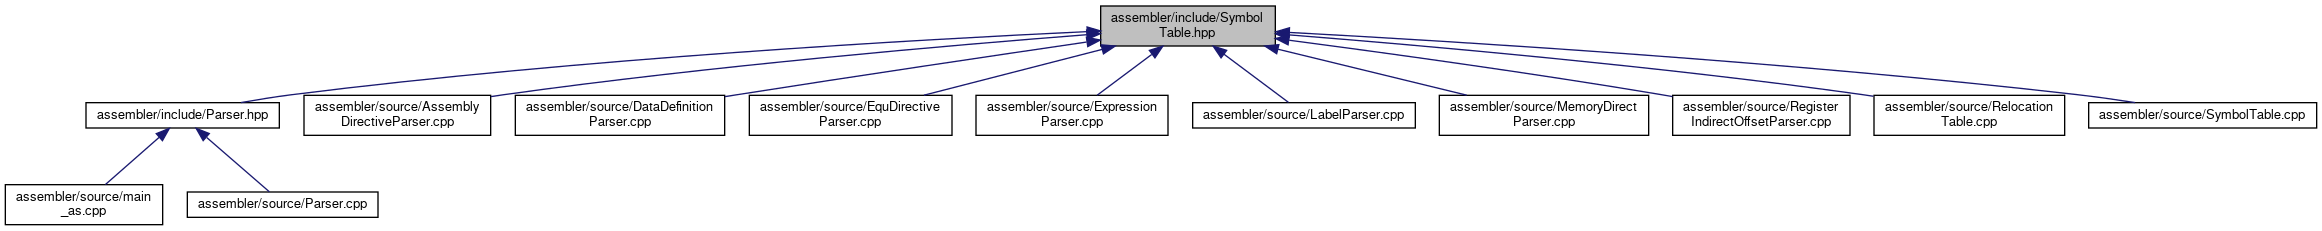
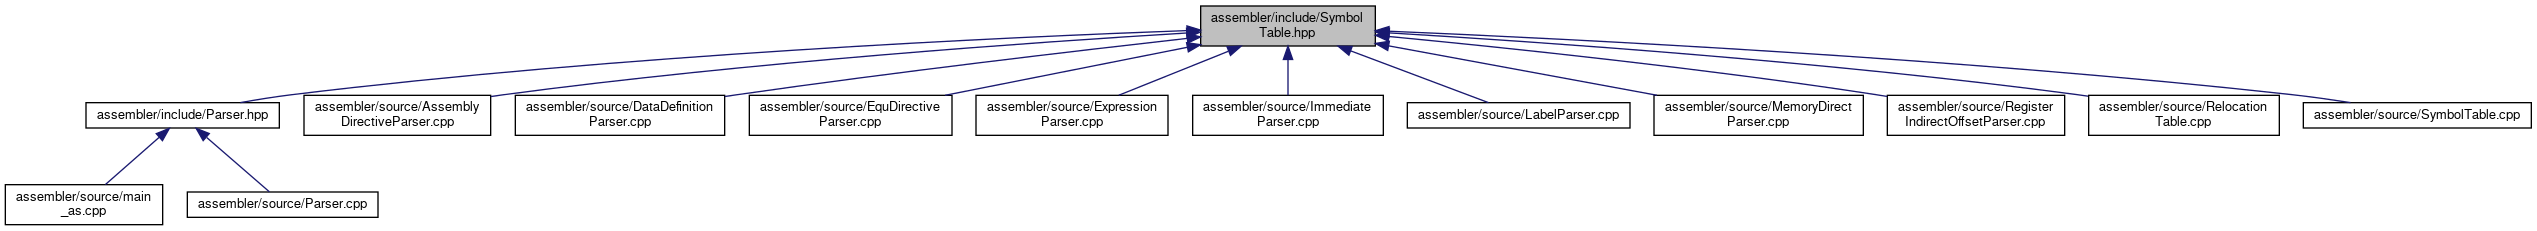
[automated] Build docs

diff --git a/docs/dir_000002_000001.html b/docs/dir_000002_000001.html
@@ -65,7 +65,7 @@ $(function() {
 </div>
 </div><!-- top -->
 <div class="contents">
-<h3>source &rarr; include Relation</h3><table class="dirtab"><tr class="dirtab"><th class="dirtab">File in assembler/source</th><th class="dirtab">Includes file in assembler/include</th></tr><tr class="dirtab"><td class="dirtab"><a class="el" href="AssemblyDirectiveParser_8cpp.html">AssemblyDirectiveParser.cpp</a></td><td class="dirtab"><a class="el" href="AssemblyDirectiveParser_8hpp.html">AssemblyDirectiveParser.hpp</a></td></tr><tr class="dirtab"><td class="dirtab"><a class="el" href="AssemblyDirectiveParser_8cpp.html">AssemblyDirectiveParser.cpp</a></td><td class="dirtab"><a class="el" href="SectionTable_8hpp.html">SectionTable.hpp</a></td></tr><tr class="dirtab"><td class="dirtab"><a class="el" href="AssemblyDirectiveParser_8cpp.html">AssemblyDirectiveParser.cpp</a></td><td class="dirtab"><a class="el" href="SymbolTable_8hpp.html">SymbolTable.hpp</a></td></tr><tr class="dirtab"><td class="dirtab"><a class="el" href="CommandOptions_8cpp.html">CommandOptions.cpp</a></td><td class="dirtab"><a class="el" href="CommandOptions_8hpp.html">CommandOptions.hpp</a></td></tr><tr class="dirtab"><td class="dirtab"><a class="el" href="DataDefinitionParser_8cpp.html">DataDefinitionParser.cpp</a></td><td class="dirtab"><a class="el" href="DataDefinitionParser_8hpp.html">DataDefinitionParser.hpp</a></td></tr><tr class="dirtab"><td class="dirtab"><a class="el" href="DataDefinitionParser_8cpp.html">DataDefinitionParser.cpp</a></td><td class="dirtab"><a class="el" href="ExpressionParser_8hpp.html">ExpressionParser.hpp</a></td></tr><tr class="dirtab"><td class="dirtab"><a class="el" href="DataDefinitionParser_8cpp.html">DataDefinitionParser.cpp</a></td><td class="dirtab"><a class="el" href="ObjectCodeArray_8hpp.html">ObjectCodeArray.hpp</a></td></tr><tr class="dirtab"><td class="dirtab"><a class="el" href="DataDefinitionParser_8cpp.html">DataDefinitionParser.cpp</a></td><td class="dirtab"><a class="el" href="RelocationTable_8hpp.html">RelocationTable.hpp</a></td></tr><tr class="dirtab"><td class="dirtab"><a class="el" href="DataDefinitionParser_8cpp.html">DataDefinitionParser.cpp</a></td><td class="dirtab"><a class="el" href="SymbolTable_8hpp.html">SymbolTable.hpp</a></td></tr><tr class="dirtab"><td class="dirtab"><a class="el" href="EquDirectiveParser_8cpp.html">EquDirectiveParser.cpp</a></td><td class="dirtab"><a class="el" href="EquDirectiveParser_8hpp.html">EquDirectiveParser.hpp</a></td></tr><tr class="dirtab"><td class="dirtab"><a class="el" href="EquDirectiveParser_8cpp.html">EquDirectiveParser.cpp</a></td><td class="dirtab"><a class="el" href="ExpressionParser_8hpp.html">ExpressionParser.hpp</a></td></tr><tr class="dirtab"><td class="dirtab"><a class="el" href="EquDirectiveParser_8cpp.html">EquDirectiveParser.cpp</a></td><td class="dirtab"><a class="el" href="RelocationTable_8hpp.html">RelocationTable.hpp</a></td></tr><tr class="dirtab"><td class="dirtab"><a class="el" href="EquDirectiveParser_8cpp.html">EquDirectiveParser.cpp</a></td><td class="dirtab"><a class="el" href="SectionTable_8hpp.html">SectionTable.hpp</a></td></tr><tr class="dirtab"><td class="dirtab"><a class="el" href="EquDirectiveParser_8cpp.html">EquDirectiveParser.cpp</a></td><td class="dirtab"><a class="el" href="SymbolTable_8hpp.html">SymbolTable.hpp</a></td></tr><tr class="dirtab"><td class="dirtab"><a class="el" href="ExpressionParser_8cpp.html">ExpressionParser.cpp</a></td><td class="dirtab"><a class="el" href="DataDefs_8hpp.html">DataDefs.hpp</a></td></tr><tr class="dirtab"><td class="dirtab"><a class="el" href="ExpressionParser_8cpp.html">ExpressionParser.cpp</a></td><td class="dirtab"><a class="el" href="ExpressionParser_8hpp.html">ExpressionParser.hpp</a></td></tr><tr class="dirtab"><td class="dirtab"><a class="el" href="ExpressionParser_8cpp.html">ExpressionParser.cpp</a></td><td class="dirtab"><a class="el" href="LiteralParsingException_8hpp.html">LiteralParsingException.hpp</a></td></tr><tr class="dirtab"><td class="dirtab"><a class="el" href="ExpressionParser_8cpp.html">ExpressionParser.cpp</a></td><td class="dirtab"><a class="el" href="SymbolTable_8hpp.html">SymbolTable.hpp</a></td></tr><tr class="dirtab"><td class="dirtab"><a class="el" href="ImmediateParser_8cpp.html">ImmediateParser.cpp</a></td><td class="dirtab"><a class="el" href="ExpressionParser_8hpp.html">ExpressionParser.hpp</a></td></tr><tr class="dirtab"><td class="dirtab"><a class="el" href="ImmediateParser_8cpp.html">ImmediateParser.cpp</a></td><td class="dirtab"><a class="el" href="ImmediateParser_8hpp.html">ImmediateParser.hpp</a></td></tr><tr class="dirtab"><td class="dirtab"><a class="el" href="InstructionParser_8cpp.html">InstructionParser.cpp</a></td><td class="dirtab"><a class="el" href="ImmediateParser_8hpp.html">ImmediateParser.hpp</a></td></tr><tr class="dirtab"><td class="dirtab"><a class="el" href="InstructionParser_8cpp.html">InstructionParser.cpp</a></td><td class="dirtab"><a class="el" href="InstructionParser_8hpp.html">InstructionParser.hpp</a></td></tr><tr class="dirtab"><td class="dirtab"><a class="el" href="InstructionParser_8cpp.html">InstructionParser.cpp</a></td><td class="dirtab"><a class="el" href="MemoryDirectParser_8hpp.html">MemoryDirectParser.hpp</a></td></tr><tr class="dirtab"><td class="dirtab"><a class="el" href="InstructionParser_8cpp.html">InstructionParser.cpp</a></td><td class="dirtab"><a class="el" href="ObjectCodeArray_8hpp.html">ObjectCodeArray.hpp</a></td></tr><tr class="dirtab"><td class="dirtab"><a class="el" href="InstructionParser_8cpp.html">InstructionParser.cpp</a></td><td class="dirtab"><a class="el" href="RegisterDirectParser_8hpp.html">RegisterDirectParser.hpp</a></td></tr><tr class="dirtab"><td class="dirtab"><a class="el" href="InstructionParser_8cpp.html">InstructionParser.cpp</a></td><td class="dirtab"><a class="el" href="RegisterIndirectOffsetParser_8hpp.html">RegisterIndirectOffsetParser.hpp</a></td></tr><tr class="dirtab"><td class="dirtab"><a class="el" href="InstructionParser_8cpp.html">InstructionParser.cpp</a></td><td class="dirtab"><a class="el" href="RegisterIndirectParser_8hpp.html">RegisterIndirectParser.hpp</a></td></tr><tr class="dirtab"><td class="dirtab"><a class="el" href="LabelParser_8cpp.html">LabelParser.cpp</a></td><td class="dirtab"><a class="el" href="LabelParser_8hpp.html">LabelParser.hpp</a></td></tr><tr class="dirtab"><td class="dirtab"><a class="el" href="LabelParser_8cpp.html">LabelParser.cpp</a></td><td class="dirtab"><a class="el" href="ParsingException_8hpp.html">ParsingException.hpp</a></td></tr><tr class="dirtab"><td class="dirtab"><a class="el" href="LabelParser_8cpp.html">LabelParser.cpp</a></td><td class="dirtab"><a class="el" href="SymbolTable_8hpp.html">SymbolTable.hpp</a></td></tr><tr class="dirtab"><td class="dirtab"><a class="el" href="LineCommentStripper_8cpp.html">LineCommentStripper.cpp</a></td><td class="dirtab"><a class="el" href="LineCommentStripper_8hpp.html">LineCommentStripper.hpp</a></td></tr><tr class="dirtab"><td class="dirtab"><a class="el" href="main__as_8cpp.html">main_as.cpp</a></td><td class="dirtab"><a class="el" href="CommandOptions_8hpp.html">CommandOptions.hpp</a></td></tr><tr class="dirtab"><td class="dirtab"><a class="el" href="main__as_8cpp.html">main_as.cpp</a></td><td class="dirtab"><a class="el" href="Parser_8hpp.html">Parser.hpp</a></td></tr><tr class="dirtab"><td class="dirtab"><a class="el" href="MemoryDirectParser_8cpp.html">MemoryDirectParser.cpp</a></td><td class="dirtab"><a class="el" href="ExpressionParser_8hpp.html">ExpressionParser.hpp</a></td></tr><tr class="dirtab"><td class="dirtab"><a class="el" href="MemoryDirectParser_8cpp.html">MemoryDirectParser.cpp</a></td><td class="dirtab"><a class="el" href="MemoryDirectParser_8hpp.html">MemoryDirectParser.hpp</a></td></tr><tr class="dirtab"><td class="dirtab"><a class="el" href="MemoryDirectParser_8cpp.html">MemoryDirectParser.cpp</a></td><td class="dirtab"><a class="el" href="SymbolTable_8hpp.html">SymbolTable.hpp</a></td></tr><tr class="dirtab"><td class="dirtab"><a class="el" href="ObjectCodeArray_8cpp.html">ObjectCodeArray.cpp</a></td><td class="dirtab"><a class="el" href="ObjectCodeArray_8hpp.html">ObjectCodeArray.hpp</a></td></tr><tr class="dirtab"><td class="dirtab"><a class="el" href="OperandParser_8cpp.html">OperandParser.cpp</a></td><td class="dirtab"><a class="el" href="OperandParser_8hpp.html">OperandParser.hpp</a></td></tr><tr class="dirtab"><td class="dirtab"><a class="el" href="Parser_8cpp.html">Parser.cpp</a></td><td class="dirtab"><a class="el" href="AssemblyDirectiveParser_8hpp.html">AssemblyDirectiveParser.hpp</a></td></tr><tr class="dirtab"><td class="dirtab"><a class="el" href="Parser_8cpp.html">Parser.cpp</a></td><td class="dirtab"><a class="el" href="DataDefinitionParser_8hpp.html">DataDefinitionParser.hpp</a></td></tr><tr class="dirtab"><td class="dirtab"><a class="el" href="Parser_8cpp.html">Parser.cpp</a></td><td class="dirtab"><a class="el" href="EquDirectiveParser_8hpp.html">EquDirectiveParser.hpp</a></td></tr><tr class="dirtab"><td class="dirtab"><a class="el" href="Parser_8cpp.html">Parser.cpp</a></td><td class="dirtab"><a class="el" href="InstructionParser_8hpp.html">InstructionParser.hpp</a></td></tr><tr class="dirtab"><td class="dirtab"><a class="el" href="Parser_8cpp.html">Parser.cpp</a></td><td class="dirtab"><a class="el" href="Parser_8hpp.html">Parser.hpp</a></td></tr><tr class="dirtab"><td class="dirtab"><a class="el" href="Parser_8cpp.html">Parser.cpp</a></td><td class="dirtab"><a class="el" href="ParsingException_8hpp.html">ParsingException.hpp</a></td></tr><tr class="dirtab"><td class="dirtab"><a class="el" href="RegisterDirectParser_8cpp.html">RegisterDirectParser.cpp</a></td><td class="dirtab"><a class="el" href="RegisterDirectParser_8hpp.html">RegisterDirectParser.hpp</a></td></tr><tr class="dirtab"><td class="dirtab"><a class="el" href="RegisterIndirectOffsetParser_8cpp.html">RegisterIndirectOffsetParser.cpp</a></td><td class="dirtab"><a class="el" href="ExpressionParser_8hpp.html">ExpressionParser.hpp</a></td></tr><tr class="dirtab"><td class="dirtab"><a class="el" href="RegisterIndirectOffsetParser_8cpp.html">RegisterIndirectOffsetParser.cpp</a></td><td class="dirtab"><a class="el" href="RegisterIndirectOffsetParser_8hpp.html">RegisterIndirectOffsetParser.hpp</a></td></tr><tr class="dirtab"><td class="dirtab"><a class="el" href="RegisterIndirectOffsetParser_8cpp.html">RegisterIndirectOffsetParser.cpp</a></td><td class="dirtab"><a class="el" href="SymbolTable_8hpp.html">SymbolTable.hpp</a></td></tr><tr class="dirtab"><td class="dirtab"><a class="el" href="RegisterIndirectParser_8cpp.html">RegisterIndirectParser.cpp</a></td><td class="dirtab"><a class="el" href="RegisterIndirectParser_8hpp.html">RegisterIndirectParser.hpp</a></td></tr><tr class="dirtab"><td class="dirtab"><a class="el" href="RelocationTable_8cpp.html">RelocationTable.cpp</a></td><td class="dirtab"><a class="el" href="ObjectCodeArray_8hpp.html">ObjectCodeArray.hpp</a></td></tr><tr class="dirtab"><td class="dirtab"><a class="el" href="RelocationTable_8cpp.html">RelocationTable.cpp</a></td><td class="dirtab"><a class="el" href="RelocationTable_8hpp.html">RelocationTable.hpp</a></td></tr><tr class="dirtab"><td class="dirtab"><a class="el" href="RelocationTable_8cpp.html">RelocationTable.cpp</a></td><td class="dirtab"><a class="el" href="SymbolTable_8hpp.html">SymbolTable.hpp</a></td></tr><tr class="dirtab"><td class="dirtab"><a class="el" href="RelocationTable_8cpp.html">RelocationTable.cpp</a></td><td class="dirtab"><a class="el" href="UndefinedSymbolReference_8hpp.html">UndefinedSymbolReference.hpp</a></td></tr><tr class="dirtab"><td class="dirtab"><a class="el" href="SectionTable_8cpp.html">SectionTable.cpp</a></td><td class="dirtab"><a class="el" href="SectionTable_8hpp.html">SectionTable.hpp</a></td></tr><tr class="dirtab"><td class="dirtab"><a class="el" href="Statement_8cpp.html">Statement.cpp</a></td><td class="dirtab"><a class="el" href="Statement_8hpp.html">Statement.hpp</a></td></tr><tr class="dirtab"><td class="dirtab"><a class="el" href="StatementParser_8cpp.html">StatementParser.cpp</a></td><td class="dirtab"><a class="el" href="StatementParser_8hpp.html">StatementParser.hpp</a></td></tr><tr class="dirtab"><td class="dirtab"><a class="el" href="SymbolTable_8cpp.html">SymbolTable.cpp</a></td><td class="dirtab"><a class="el" href="SymbolTable_8hpp.html">SymbolTable.hpp</a></td></tr></table></div><!-- contents -->
+<h3>source &rarr; include Relation</h3><table class="dirtab"><tr class="dirtab"><th class="dirtab">File in assembler/source</th><th class="dirtab">Includes file in assembler/include</th></tr><tr class="dirtab"><td class="dirtab"><a class="el" href="AssemblyDirectiveParser_8cpp.html">AssemblyDirectiveParser.cpp</a></td><td class="dirtab"><a class="el" href="AssemblyDirectiveParser_8hpp.html">AssemblyDirectiveParser.hpp</a></td></tr><tr class="dirtab"><td class="dirtab"><a class="el" href="AssemblyDirectiveParser_8cpp.html">AssemblyDirectiveParser.cpp</a></td><td class="dirtab"><a class="el" href="SectionTable_8hpp.html">SectionTable.hpp</a></td></tr><tr class="dirtab"><td class="dirtab"><a class="el" href="AssemblyDirectiveParser_8cpp.html">AssemblyDirectiveParser.cpp</a></td><td class="dirtab"><a class="el" href="SymbolTable_8hpp.html">SymbolTable.hpp</a></td></tr><tr class="dirtab"><td class="dirtab"><a class="el" href="CommandOptions_8cpp.html">CommandOptions.cpp</a></td><td class="dirtab"><a class="el" href="CommandOptions_8hpp.html">CommandOptions.hpp</a></td></tr><tr class="dirtab"><td class="dirtab"><a class="el" href="DataDefinitionParser_8cpp.html">DataDefinitionParser.cpp</a></td><td class="dirtab"><a class="el" href="DataDefinitionParser_8hpp.html">DataDefinitionParser.hpp</a></td></tr><tr class="dirtab"><td class="dirtab"><a class="el" href="DataDefinitionParser_8cpp.html">DataDefinitionParser.cpp</a></td><td class="dirtab"><a class="el" href="ExpressionParser_8hpp.html">ExpressionParser.hpp</a></td></tr><tr class="dirtab"><td class="dirtab"><a class="el" href="DataDefinitionParser_8cpp.html">DataDefinitionParser.cpp</a></td><td class="dirtab"><a class="el" href="ObjectCodeArray_8hpp.html">ObjectCodeArray.hpp</a></td></tr><tr class="dirtab"><td class="dirtab"><a class="el" href="DataDefinitionParser_8cpp.html">DataDefinitionParser.cpp</a></td><td class="dirtab"><a class="el" href="RelocationTable_8hpp.html">RelocationTable.hpp</a></td></tr><tr class="dirtab"><td class="dirtab"><a class="el" href="DataDefinitionParser_8cpp.html">DataDefinitionParser.cpp</a></td><td class="dirtab"><a class="el" href="SymbolTable_8hpp.html">SymbolTable.hpp</a></td></tr><tr class="dirtab"><td class="dirtab"><a class="el" href="EquDirectiveParser_8cpp.html">EquDirectiveParser.cpp</a></td><td class="dirtab"><a class="el" href="EquDirectiveParser_8hpp.html">EquDirectiveParser.hpp</a></td></tr><tr class="dirtab"><td class="dirtab"><a class="el" href="EquDirectiveParser_8cpp.html">EquDirectiveParser.cpp</a></td><td class="dirtab"><a class="el" href="ExpressionParser_8hpp.html">ExpressionParser.hpp</a></td></tr><tr class="dirtab"><td class="dirtab"><a class="el" href="EquDirectiveParser_8cpp.html">EquDirectiveParser.cpp</a></td><td class="dirtab"><a class="el" href="RelocationTable_8hpp.html">RelocationTable.hpp</a></td></tr><tr class="dirtab"><td class="dirtab"><a class="el" href="EquDirectiveParser_8cpp.html">EquDirectiveParser.cpp</a></td><td class="dirtab"><a class="el" href="SectionTable_8hpp.html">SectionTable.hpp</a></td></tr><tr class="dirtab"><td class="dirtab"><a class="el" href="EquDirectiveParser_8cpp.html">EquDirectiveParser.cpp</a></td><td class="dirtab"><a class="el" href="SymbolTable_8hpp.html">SymbolTable.hpp</a></td></tr><tr class="dirtab"><td class="dirtab"><a class="el" href="ExpressionParser_8cpp.html">ExpressionParser.cpp</a></td><td class="dirtab"><a class="el" href="DataDefs_8hpp.html">DataDefs.hpp</a></td></tr><tr class="dirtab"><td class="dirtab"><a class="el" href="ExpressionParser_8cpp.html">ExpressionParser.cpp</a></td><td class="dirtab"><a class="el" href="ExpressionParser_8hpp.html">ExpressionParser.hpp</a></td></tr><tr class="dirtab"><td class="dirtab"><a class="el" href="ExpressionParser_8cpp.html">ExpressionParser.cpp</a></td><td class="dirtab"><a class="el" href="LiteralParsingException_8hpp.html">LiteralParsingException.hpp</a></td></tr><tr class="dirtab"><td class="dirtab"><a class="el" href="ExpressionParser_8cpp.html">ExpressionParser.cpp</a></td><td class="dirtab"><a class="el" href="SymbolTable_8hpp.html">SymbolTable.hpp</a></td></tr><tr class="dirtab"><td class="dirtab"><a class="el" href="ImmediateParser_8cpp.html">ImmediateParser.cpp</a></td><td class="dirtab"><a class="el" href="ExpressionParser_8hpp.html">ExpressionParser.hpp</a></td></tr><tr class="dirtab"><td class="dirtab"><a class="el" href="ImmediateParser_8cpp.html">ImmediateParser.cpp</a></td><td class="dirtab"><a class="el" href="ImmediateParser_8hpp.html">ImmediateParser.hpp</a></td></tr><tr class="dirtab"><td class="dirtab"><a class="el" href="ImmediateParser_8cpp.html">ImmediateParser.cpp</a></td><td class="dirtab"><a class="el" href="RelocationTable_8hpp.html">RelocationTable.hpp</a></td></tr><tr class="dirtab"><td class="dirtab"><a class="el" href="ImmediateParser_8cpp.html">ImmediateParser.cpp</a></td><td class="dirtab"><a class="el" href="SymbolTable_8hpp.html">SymbolTable.hpp</a></td></tr><tr class="dirtab"><td class="dirtab"><a class="el" href="InstructionParser_8cpp.html">InstructionParser.cpp</a></td><td class="dirtab"><a class="el" href="ImmediateParser_8hpp.html">ImmediateParser.hpp</a></td></tr><tr class="dirtab"><td class="dirtab"><a class="el" href="InstructionParser_8cpp.html">InstructionParser.cpp</a></td><td class="dirtab"><a class="el" href="InstructionParser_8hpp.html">InstructionParser.hpp</a></td></tr><tr class="dirtab"><td class="dirtab"><a class="el" href="InstructionParser_8cpp.html">InstructionParser.cpp</a></td><td class="dirtab"><a class="el" href="MemoryDirectParser_8hpp.html">MemoryDirectParser.hpp</a></td></tr><tr class="dirtab"><td class="dirtab"><a class="el" href="InstructionParser_8cpp.html">InstructionParser.cpp</a></td><td class="dirtab"><a class="el" href="ObjectCodeArray_8hpp.html">ObjectCodeArray.hpp</a></td></tr><tr class="dirtab"><td class="dirtab"><a class="el" href="InstructionParser_8cpp.html">InstructionParser.cpp</a></td><td class="dirtab"><a class="el" href="RegisterDirectParser_8hpp.html">RegisterDirectParser.hpp</a></td></tr><tr class="dirtab"><td class="dirtab"><a class="el" href="InstructionParser_8cpp.html">InstructionParser.cpp</a></td><td class="dirtab"><a class="el" href="RegisterIndirectOffsetParser_8hpp.html">RegisterIndirectOffsetParser.hpp</a></td></tr><tr class="dirtab"><td class="dirtab"><a class="el" href="InstructionParser_8cpp.html">InstructionParser.cpp</a></td><td class="dirtab"><a class="el" href="RegisterIndirectParser_8hpp.html">RegisterIndirectParser.hpp</a></td></tr><tr class="dirtab"><td class="dirtab"><a class="el" href="LabelParser_8cpp.html">LabelParser.cpp</a></td><td class="dirtab"><a class="el" href="LabelParser_8hpp.html">LabelParser.hpp</a></td></tr><tr class="dirtab"><td class="dirtab"><a class="el" href="LabelParser_8cpp.html">LabelParser.cpp</a></td><td class="dirtab"><a class="el" href="ParsingException_8hpp.html">ParsingException.hpp</a></td></tr><tr class="dirtab"><td class="dirtab"><a class="el" href="LabelParser_8cpp.html">LabelParser.cpp</a></td><td class="dirtab"><a class="el" href="SymbolTable_8hpp.html">SymbolTable.hpp</a></td></tr><tr class="dirtab"><td class="dirtab"><a class="el" href="LineCommentStripper_8cpp.html">LineCommentStripper.cpp</a></td><td class="dirtab"><a class="el" href="LineCommentStripper_8hpp.html">LineCommentStripper.hpp</a></td></tr><tr class="dirtab"><td class="dirtab"><a class="el" href="main__as_8cpp.html">main_as.cpp</a></td><td class="dirtab"><a class="el" href="CommandOptions_8hpp.html">CommandOptions.hpp</a></td></tr><tr class="dirtab"><td class="dirtab"><a class="el" href="main__as_8cpp.html">main_as.cpp</a></td><td class="dirtab"><a class="el" href="Parser_8hpp.html">Parser.hpp</a></td></tr><tr class="dirtab"><td class="dirtab"><a class="el" href="MemoryDirectParser_8cpp.html">MemoryDirectParser.cpp</a></td><td class="dirtab"><a class="el" href="ExpressionParser_8hpp.html">ExpressionParser.hpp</a></td></tr><tr class="dirtab"><td class="dirtab"><a class="el" href="MemoryDirectParser_8cpp.html">MemoryDirectParser.cpp</a></td><td class="dirtab"><a class="el" href="MemoryDirectParser_8hpp.html">MemoryDirectParser.hpp</a></td></tr><tr class="dirtab"><td class="dirtab"><a class="el" href="MemoryDirectParser_8cpp.html">MemoryDirectParser.cpp</a></td><td class="dirtab"><a class="el" href="SymbolTable_8hpp.html">SymbolTable.hpp</a></td></tr><tr class="dirtab"><td class="dirtab"><a class="el" href="ObjectCodeArray_8cpp.html">ObjectCodeArray.cpp</a></td><td class="dirtab"><a class="el" href="ObjectCodeArray_8hpp.html">ObjectCodeArray.hpp</a></td></tr><tr class="dirtab"><td class="dirtab"><a class="el" href="OperandParser_8cpp.html">OperandParser.cpp</a></td><td class="dirtab"><a class="el" href="OperandParser_8hpp.html">OperandParser.hpp</a></td></tr><tr class="dirtab"><td class="dirtab"><a class="el" href="Parser_8cpp.html">Parser.cpp</a></td><td class="dirtab"><a class="el" href="AssemblyDirectiveParser_8hpp.html">AssemblyDirectiveParser.hpp</a></td></tr><tr class="dirtab"><td class="dirtab"><a class="el" href="Parser_8cpp.html">Parser.cpp</a></td><td class="dirtab"><a class="el" href="DataDefinitionParser_8hpp.html">DataDefinitionParser.hpp</a></td></tr><tr class="dirtab"><td class="dirtab"><a class="el" href="Parser_8cpp.html">Parser.cpp</a></td><td class="dirtab"><a class="el" href="EquDirectiveParser_8hpp.html">EquDirectiveParser.hpp</a></td></tr><tr class="dirtab"><td class="dirtab"><a class="el" href="Parser_8cpp.html">Parser.cpp</a></td><td class="dirtab"><a class="el" href="InstructionParser_8hpp.html">InstructionParser.hpp</a></td></tr><tr class="dirtab"><td class="dirtab"><a class="el" href="Parser_8cpp.html">Parser.cpp</a></td><td class="dirtab"><a class="el" href="Parser_8hpp.html">Parser.hpp</a></td></tr><tr class="dirtab"><td class="dirtab"><a class="el" href="Parser_8cpp.html">Parser.cpp</a></td><td class="dirtab"><a class="el" href="ParsingException_8hpp.html">ParsingException.hpp</a></td></tr><tr class="dirtab"><td class="dirtab"><a class="el" href="RegisterDirectParser_8cpp.html">RegisterDirectParser.cpp</a></td><td class="dirtab"><a class="el" href="RegisterDirectParser_8hpp.html">RegisterDirectParser.hpp</a></td></tr><tr class="dirtab"><td class="dirtab"><a class="el" href="RegisterIndirectOffsetParser_8cpp.html">RegisterIndirectOffsetParser.cpp</a></td><td class="dirtab"><a class="el" href="ExpressionParser_8hpp.html">ExpressionParser.hpp</a></td></tr><tr class="dirtab"><td class="dirtab"><a class="el" href="RegisterIndirectOffsetParser_8cpp.html">RegisterIndirectOffsetParser.cpp</a></td><td class="dirtab"><a class="el" href="RegisterIndirectOffsetParser_8hpp.html">RegisterIndirectOffsetParser.hpp</a></td></tr><tr class="dirtab"><td class="dirtab"><a class="el" href="RegisterIndirectOffsetParser_8cpp.html">RegisterIndirectOffsetParser.cpp</a></td><td class="dirtab"><a class="el" href="SymbolTable_8hpp.html">SymbolTable.hpp</a></td></tr><tr class="dirtab"><td class="dirtab"><a class="el" href="RegisterIndirectParser_8cpp.html">RegisterIndirectParser.cpp</a></td><td class="dirtab"><a class="el" href="RegisterIndirectParser_8hpp.html">RegisterIndirectParser.hpp</a></td></tr><tr class="dirtab"><td class="dirtab"><a class="el" href="RelocationTable_8cpp.html">RelocationTable.cpp</a></td><td class="dirtab"><a class="el" href="ObjectCodeArray_8hpp.html">ObjectCodeArray.hpp</a></td></tr><tr class="dirtab"><td class="dirtab"><a class="el" href="RelocationTable_8cpp.html">RelocationTable.cpp</a></td><td class="dirtab"><a class="el" href="RelocationTable_8hpp.html">RelocationTable.hpp</a></td></tr><tr class="dirtab"><td class="dirtab"><a class="el" href="RelocationTable_8cpp.html">RelocationTable.cpp</a></td><td class="dirtab"><a class="el" href="SymbolTable_8hpp.html">SymbolTable.hpp</a></td></tr><tr class="dirtab"><td class="dirtab"><a class="el" href="RelocationTable_8cpp.html">RelocationTable.cpp</a></td><td class="dirtab"><a class="el" href="UndefinedSymbolReference_8hpp.html">UndefinedSymbolReference.hpp</a></td></tr><tr class="dirtab"><td class="dirtab"><a class="el" href="SectionTable_8cpp.html">SectionTable.cpp</a></td><td class="dirtab"><a class="el" href="SectionTable_8hpp.html">SectionTable.hpp</a></td></tr><tr class="dirtab"><td class="dirtab"><a class="el" href="Statement_8cpp.html">Statement.cpp</a></td><td class="dirtab"><a class="el" href="Statement_8hpp.html">Statement.hpp</a></td></tr><tr class="dirtab"><td class="dirtab"><a class="el" href="StatementParser_8cpp.html">StatementParser.cpp</a></td><td class="dirtab"><a class="el" href="StatementParser_8hpp.html">StatementParser.hpp</a></td></tr><tr class="dirtab"><td class="dirtab"><a class="el" href="SymbolTable_8cpp.html">SymbolTable.cpp</a></td><td class="dirtab"><a class="el" href="SymbolTable_8hpp.html">SymbolTable.hpp</a></td></tr></table></div><!-- contents -->
 <!-- start footer part -->
 <hr class="footer"/><address class="footer"><small>
 Generated by&#160;<a href="https://www.doxygen.org/index.html"><img class="footer" src="doxygen.svg" width="104" height="31" alt="doxygen"/></a> 1.9.1

diff --git a/docs/ImmediateParser_8hpp_source.html b/docs/ImmediateParser_8hpp_source.html
@@ -93,16 +93,19 @@ $(function() {
 <div class="line"><a name="l00022"></a><span class="lineno">   22</span>&#160;        <span class="keywordtype">bool</span> can_parse(<span class="keyword">const</span> std::string &amp;operand) <span class="keyword">const</span>;</div>
 <div class="line"><a name="l00023"></a><span class="lineno">   23</span>&#160;        <span class="keywordtype">bool</span> can_parse_jump_instruction(<span class="keyword">const</span> std::string &amp;operand) <span class="keyword">const</span>;</div>
 <div class="line"><a name="l00024"></a><span class="lineno">   24</span>&#160; </div>
-<div class="line"><a name="l00025"></a><span class="lineno">   25</span>&#160;        std::shared_ptr&lt;assembler::SymbolTable&gt; symbol_table_;</div>
-<div class="line"><a name="l00026"></a><span class="lineno">   26</span>&#160;    };</div>
-<div class="line"><a name="l00027"></a><span class="lineno">   27</span>&#160;} <span class="comment">// namespace parsers</span></div>
-<div class="line"><a name="l00028"></a><span class="lineno">   28</span>&#160; </div>
-<div class="line"><a name="l00029"></a><span class="lineno">   29</span>&#160;<span class="preprocessor">#endif</span></div>
+<div class="line"><a name="l00025"></a><span class="lineno">   25</span>&#160;        <span class="keywordtype">void</span> add_immediate_relocation(std::string symbol,</div>
+<div class="line"><a name="l00026"></a><span class="lineno">   26</span>&#160;                                      std::shared_ptr&lt;statement::operand_t&gt; operand);</div>
+<div class="line"><a name="l00027"></a><span class="lineno">   27</span>&#160; </div>
+<div class="line"><a name="l00028"></a><span class="lineno">   28</span>&#160;        std::shared_ptr&lt;assembler::SymbolTable&gt; symbol_table_;</div>
+<div class="line"><a name="l00029"></a><span class="lineno">   29</span>&#160;    };</div>
+<div class="line"><a name="l00030"></a><span class="lineno">   30</span>&#160;} <span class="comment">// namespace parsers</span></div>
+<div class="line"><a name="l00031"></a><span class="lineno">   31</span>&#160; </div>
+<div class="line"><a name="l00032"></a><span class="lineno">   32</span>&#160;<span class="preprocessor">#endif</span></div>
 <div class="ttc" id="aOperandParser_8hpp_html"><div class="ttname"><a href="OperandParser_8hpp.html">OperandParser.hpp</a></div></div>
 <div class="ttc" id="aclassparsers_1_1ImmediateParser_html"><div class="ttname"><a href="classparsers_1_1ImmediateParser.html">parsers::ImmediateParser</a></div><div class="ttdef"><b>Definition:</b> ImmediateParser.hpp:14</div></div>
-<div class="ttc" id="aclassparsers_1_1ImmediateParser_html_a29a9eeed8a50975b819b43288dda389f"><div class="ttname"><a href="classparsers_1_1ImmediateParser.html#a29a9eeed8a50975b819b43288dda389f">parsers::ImmediateParser::ImmediateParser</a></div><div class="ttdeci">ImmediateParser(std::shared_ptr&lt; assembler::SymbolTable &gt; symbol_table)</div><div class="ttdef"><b>Definition:</b> ImmediateParser.cpp:37</div></div>
-<div class="ttc" id="aclassparsers_1_1ImmediateParser_html_a9b14084f76bd3838e18f8e24ca6dd7bd"><div class="ttname"><a href="classparsers_1_1ImmediateParser.html#a9b14084f76bd3838e18f8e24ca6dd7bd">parsers::ImmediateParser::parse</a></div><div class="ttdeci">std::shared_ptr&lt; statement::operand_t &gt; parse(std::string operand) override</div><div class="ttdef"><b>Definition:</b> ImmediateParser.cpp:5</div></div>
-<div class="ttc" id="aclassparsers_1_1ImmediateParser_html_ad05c5a3a9c74f67755a399958086bc9e"><div class="ttname"><a href="classparsers_1_1ImmediateParser.html#ad05c5a3a9c74f67755a399958086bc9e">parsers::ImmediateParser::parse_jump_instruction</a></div><div class="ttdeci">std::shared_ptr&lt; statement::operand_t &gt; parse_jump_instruction(std::string operand) override</div><div class="ttdef"><b>Definition:</b> ImmediateParser.cpp:22</div></div>
+<div class="ttc" id="aclassparsers_1_1ImmediateParser_html_a29a9eeed8a50975b819b43288dda389f"><div class="ttname"><a href="classparsers_1_1ImmediateParser.html#a29a9eeed8a50975b819b43288dda389f">parsers::ImmediateParser::ImmediateParser</a></div><div class="ttdeci">ImmediateParser(std::shared_ptr&lt; assembler::SymbolTable &gt; symbol_table)</div><div class="ttdef"><b>Definition:</b> ImmediateParser.cpp:45</div></div>
+<div class="ttc" id="aclassparsers_1_1ImmediateParser_html_a9b14084f76bd3838e18f8e24ca6dd7bd"><div class="ttname"><a href="classparsers_1_1ImmediateParser.html#a9b14084f76bd3838e18f8e24ca6dd7bd">parsers::ImmediateParser::parse</a></div><div class="ttdeci">std::shared_ptr&lt; statement::operand_t &gt; parse(std::string operand) override</div><div class="ttdef"><b>Definition:</b> ImmediateParser.cpp:7</div></div>
+<div class="ttc" id="aclassparsers_1_1ImmediateParser_html_ad05c5a3a9c74f67755a399958086bc9e"><div class="ttname"><a href="classparsers_1_1ImmediateParser.html#ad05c5a3a9c74f67755a399958086bc9e">parsers::ImmediateParser::parse_jump_instruction</a></div><div class="ttdeci">std::shared_ptr&lt; statement::operand_t &gt; parse_jump_instruction(std::string operand) override</div><div class="ttdef"><b>Definition:</b> ImmediateParser.cpp:27</div></div>
 <div class="ttc" id="aclassparsers_1_1OperandParser_html"><div class="ttname"><a href="classparsers_1_1OperandParser.html">parsers::OperandParser</a></div><div class="ttdef"><b>Definition:</b> OperandParser.hpp:12</div></div>
 <div class="ttc" id="anamespaceassembler_html"><div class="ttname"><a href="namespaceassembler.html">assembler</a></div><div class="ttdef"><b>Definition:</b> AssemblyDirectiveParser.hpp:7</div></div>
 <div class="ttc" id="anamespaceparsers_html"><div class="ttname"><a href="namespaceparsers.html">parsers</a></div><div class="ttdef"><b>Definition:</b> AssemblyDirectiveParser.hpp:13</div></div>

diff --git a/docs/RelocationTable_8hpp.html b/docs/RelocationTable_8hpp.html
@@ -93,28 +93,28 @@ This graph shows which files directly or indirectly include this file:</div>
 <div class="dyncontent">
 <div class="center"><img src="RelocationTable_8hpp__dep__incl.png" border="0" usemap="#aassembler_2include_2RelocationTable_8hppdep" alt=""/></div>
 <map name="aassembler_2include_2RelocationTable_8hppdep" id="aassembler_2include_2RelocationTable_8hppdep">
-<area shape="rect" title=" " alt="" coords="1502,5,1694,47"/>
-<area shape="rect" href="Operand_8hpp.html" title=" " alt="" coords="992,102,1196,129"/>
-<area shape="rect" href="Parser_8hpp.html" title=" " alt="" coords="1276,102,1469,129"/>
-<area shape="rect" href="DataDefinitionParser_8cpp.html" title=" " alt="" coords="1493,95,1703,136"/>
-<area shape="rect" href="EquDirectiveParser_8cpp.html" title=" " alt="" coords="1727,95,1930,136"/>
-<area shape="rect" href="RelocationTable_8cpp.html" title=" " alt="" coords="1955,95,2145,136"/>
-<area shape="rect" href="InstructionParser_8hpp.html" title=" " alt="" coords="998,184,1190,225"/>
-<area shape="rect" href="OperandParser_8hpp.html" title=" " alt="" coords="647,184,827,225"/>
-<area shape="rect" href="InstructionParser_8cpp.html" title=" " alt="" coords="655,363,845,404"/>
-<area shape="rect" href="Parser_8cpp.html" title=" " alt="" coords="1307,281,1497,307"/>
-<area shape="rect" href="ImmediateParser_8hpp.html" title=" " alt="" coords="431,273,623,315"/>
-<area shape="rect" href="MemoryDirectParser_8hpp.html" title=" " alt="" coords="229,273,407,315"/>
-<area shape="rect" href="RegisterDirectParser_8hpp.html" title=" " alt="" coords="850,273,1029,315"/>
-<area shape="rect" href="RegisterIndirectOffsetParser_8hpp.html" title=" " alt="" coords="1103,273,1282,315"/>
-<area shape="rect" href="RegisterIndirectParser_8hpp.html" title=" " alt="" coords="26,273,205,315"/>
-<area shape="rect" href="OperandParser_8cpp.html" title=" " alt="" coords="647,273,826,315"/>
-<area shape="rect" href="ImmediateParser_8cpp.html" title=" " alt="" coords="440,363,631,404"/>
-<area shape="rect" href="MemoryDirectParser_8cpp.html" title=" " alt="" coords="207,363,416,404"/>
-<area shape="rect" href="RegisterDirectParser_8cpp.html" title=" " alt="" coords="869,363,1047,404"/>
-<area shape="rect" href="RegisterIndirectOffsetParser_8cpp.html" title=" " alt="" coords="1104,363,1281,404"/>
-<area shape="rect" href="RegisterIndirectParser_8cpp.html" title=" " alt="" coords="5,363,183,404"/>
-<area shape="rect" href="main__as_8cpp.html" title=" " alt="" coords="1410,184,1567,225"/>
+<area shape="rect" title=" " alt="" coords="1490,5,1682,47"/>
+<area shape="rect" href="Operand_8hpp.html" title=" " alt="" coords="989,102,1193,129"/>
+<area shape="rect" href="ImmediateParser_8cpp.html" title=" " alt="" coords="1245,363,1436,404"/>
+<area shape="rect" href="Parser_8hpp.html" title=" " alt="" coords="1284,102,1477,129"/>
+<area shape="rect" href="DataDefinitionParser_8cpp.html" title=" " alt="" coords="1553,95,1763,136"/>
+<area shape="rect" href="EquDirectiveParser_8cpp.html" title=" " alt="" coords="1787,95,1990,136"/>
+<area shape="rect" href="RelocationTable_8cpp.html" title=" " alt="" coords="2015,95,2205,136"/>
+<area shape="rect" href="InstructionParser_8hpp.html" title=" " alt="" coords="995,184,1187,225"/>
+<area shape="rect" href="OperandParser_8hpp.html" title=" " alt="" coords="613,184,793,225"/>
+<area shape="rect" href="InstructionParser_8cpp.html" title=" " alt="" coords="609,363,800,404"/>
+<area shape="rect" href="Parser_8cpp.html" title=" " alt="" coords="1287,281,1477,307"/>
+<area shape="rect" href="ImmediateParser_8hpp.html" title=" " alt="" coords="1070,273,1262,315"/>
+<area shape="rect" href="MemoryDirectParser_8hpp.html" title=" " alt="" coords="615,273,792,315"/>
+<area shape="rect" href="RegisterDirectParser_8hpp.html" title=" " alt="" coords="6,273,185,315"/>
+<area shape="rect" href="RegisterIndirectOffsetParser_8hpp.html" title=" " alt="" coords="209,273,387,315"/>
+<area shape="rect" href="RegisterIndirectParser_8hpp.html" title=" " alt="" coords="411,273,590,315"/>
+<area shape="rect" href="OperandParser_8cpp.html" title=" " alt="" coords="817,273,995,315"/>
+<area shape="rect" href="MemoryDirectParser_8cpp.html" title=" " alt="" coords="824,363,1033,404"/>
+<area shape="rect" href="RegisterDirectParser_8cpp.html" title=" " alt="" coords="5,363,183,404"/>
+<area shape="rect" href="RegisterIndirectOffsetParser_8cpp.html" title=" " alt="" coords="207,363,384,404"/>
+<area shape="rect" href="RegisterIndirectParser_8cpp.html" title=" " alt="" coords="408,363,585,404"/>
+<area shape="rect" href="main__as_8cpp.html" title=" " alt="" coords="1321,184,1478,225"/>
 </map>
 </div>
 </div>

diff --git a/docs/DataDefs_8hpp.html b/docs/DataDefs_8hpp.html
@@ -87,24 +87,24 @@ This graph shows which files directly or indirectly include this file:</div>
 <div class="dyncontent">
 <div class="center"><img src="DataDefs_8hpp__dep__incl.png" border="0" usemap="#aassembler_2include_2DataDefs_8hppdep" alt=""/></div>
 <map name="aassembler_2include_2DataDefs_8hppdep" id="aassembler_2include_2DataDefs_8hppdep">
-<area shape="rect" title=" " alt="" coords="885,5,1095,32"/>
-<area shape="rect" href="ExpressionParser_8hpp.html" title=" " alt="" coords="671,80,866,121"/>
-<area shape="rect" href="ExpressionParser_8cpp.html" title=" " alt="" coords="221,169,413,211"/>
-<area shape="rect" href="ObjectCodeArray_8hpp.html" title=" " alt="" coords="2161,80,2331,121"/>
-<area shape="rect" href="SymbolTable_8hpp.html" title=" " alt="" coords="1125,80,1300,121"/>
-<area shape="rect" href="DataDefinitionParser_8cpp.html" title=" " alt="" coords="1809,169,2019,211"/>
-<area shape="rect" href="EquDirectiveParser_8cpp.html" title=" " alt="" coords="437,169,639,211"/>
-<area shape="rect" href="ImmediateParser_8cpp.html" title=" " alt="" coords="5,169,196,211"/>
-<area shape="rect" href="MemoryDirectParser_8cpp.html" title=" " alt="" coords="664,169,873,211"/>
-<area shape="rect" href="RegisterIndirectOffsetParser_8cpp.html" title=" " alt="" coords="897,169,1075,211"/>
-<area shape="rect" href="Parser_8hpp.html" title=" " alt="" coords="2257,177,2451,203"/>
-<area shape="rect" href="InstructionParser_8cpp.html" title=" " alt="" coords="2697,169,2888,211"/>
-<area shape="rect" href="ObjectCodeArray_8cpp.html" title=" " alt="" coords="2475,169,2673,211"/>
-<area shape="rect" href="RelocationTable_8cpp.html" title=" " alt="" coords="2043,169,2233,211"/>
-<area shape="rect" href="main__as_8cpp.html" title=" " alt="" coords="2175,259,2333,300"/>
-<area shape="rect" href="Parser_8cpp.html" title=" " alt="" coords="2357,266,2548,293"/>
-<area shape="rect" href="AssemblyDirectiveParser_8cpp.html" title=" " alt="" coords="1351,169,1538,211"/>
-<area shape="rect" href="LabelParser_8cpp.html" title=" " alt="" coords="1563,177,1785,203"/>
+<area shape="rect" title=" " alt="" coords="761,5,970,32"/>
+<area shape="rect" href="ExpressionParser_8hpp.html" title=" " alt="" coords="661,80,856,121"/>
+<area shape="rect" href="ExpressionParser_8cpp.html" title=" " alt="" coords="5,169,197,211"/>
+<area shape="rect" href="ObjectCodeArray_8hpp.html" title=" " alt="" coords="2162,80,2331,121"/>
+<area shape="rect" href="SymbolTable_8hpp.html" title=" " alt="" coords="1006,80,1181,121"/>
+<area shape="rect" href="DataDefinitionParser_8cpp.html" title=" " alt="" coords="1810,169,2019,211"/>
+<area shape="rect" href="EquDirectiveParser_8cpp.html" title=" " alt="" coords="872,169,1075,211"/>
+<area shape="rect" href="ImmediateParser_8cpp.html" title=" " alt="" coords="222,169,413,211"/>
+<area shape="rect" href="MemoryDirectParser_8cpp.html" title=" " alt="" coords="437,169,646,211"/>
+<area shape="rect" href="RegisterIndirectOffsetParser_8cpp.html" title=" " alt="" coords="670,169,847,211"/>
+<area shape="rect" href="Parser_8hpp.html" title=" " alt="" coords="2258,177,2451,203"/>
+<area shape="rect" href="InstructionParser_8cpp.html" title=" " alt="" coords="2698,169,2889,211"/>
+<area shape="rect" href="ObjectCodeArray_8cpp.html" title=" " alt="" coords="2476,169,2673,211"/>
+<area shape="rect" href="RelocationTable_8cpp.html" title=" " alt="" coords="2043,169,2234,211"/>
+<area shape="rect" href="main__as_8cpp.html" title=" " alt="" coords="2176,259,2333,300"/>
+<area shape="rect" href="Parser_8cpp.html" title=" " alt="" coords="2358,266,2549,293"/>
+<area shape="rect" href="AssemblyDirectiveParser_8cpp.html" title=" " alt="" coords="1352,169,1539,211"/>
+<area shape="rect" href="LabelParser_8cpp.html" title=" " alt="" coords="1563,177,1786,203"/>
 <area shape="rect" href="SymbolTable_8cpp.html" title=" " alt="" coords="1099,177,1327,203"/>
 </map>
 </div>

diff --git a/docs/ImmediateParser_8cpp.html b/docs/ImmediateParser_8cpp.html
@@ -71,24 +71,29 @@ $(function() {
 <div class="contents">
 <div class="textblock"><code>#include &quot;<a class="el" href="ImmediateParser_8hpp_source.html">ImmediateParser.hpp</a>&quot;</code><br />
 <code>#include &quot;<a class="el" href="ExpressionParser_8hpp_source.html">ExpressionParser.hpp</a>&quot;</code><br />
+<code>#include &quot;<a class="el" href="RelocationTable_8hpp_source.html">RelocationTable.hpp</a>&quot;</code><br />
+<code>#include &quot;<a class="el" href="SymbolTable_8hpp_source.html">SymbolTable.hpp</a>&quot;</code><br />
 </div><div class="textblock"><div class="dynheader">
 Include dependency graph for ImmediateParser.cpp:</div>
 <div class="dyncontent">
 <div class="center"><img src="ImmediateParser_8cpp__incl.png" border="0" usemap="#aassembler_2source_2ImmediateParser_8cpp" alt=""/></div>
 <map name="aassembler_2source_2ImmediateParser_8cpp" id="aassembler_2source_2ImmediateParser_8cpp">
-<area shape="rect" title=" " alt="" coords="247,5,438,47"/>
-<area shape="rect" href="ImmediateParser_8hpp.html" title=" " alt="" coords="215,95,361,121"/>
-<area shape="rect" href="ExpressionParser_8hpp.html" title=" " alt="" coords="344,319,491,345"/>
-<area shape="rect" href="OperandParser_8hpp.html" title=" " alt="" coords="196,169,329,196"/>
-<area shape="rect" title=" " alt="" coords="179,393,247,420"/>
-<area shape="rect" title=" " alt="" coords="279,393,334,420"/>
-<area shape="rect" href="Operand_8hpp.html" title=" " alt="" coords="123,244,218,271"/>
-<area shape="rect" href="RelocationTable_8hpp.html" title=" " alt="" coords="29,319,168,345"/>
-<area shape="rect" title=" " alt="" coords="89,393,135,420"/>
-<area shape="rect" title=" " alt="" coords="5,393,64,420"/>
-<area shape="rect" title=" " alt="" coords="375,393,428,420"/>
-<area shape="rect" href="DataDefs_8hpp.html" title=" " alt="" coords="453,393,553,420"/>
-<area shape="rect" title=" " alt="" coords="472,468,533,495"/>
+<area shape="rect" title=" " alt="" coords="228,5,419,47"/>
+<area shape="rect" href="ImmediateParser_8hpp.html" title=" " alt="" coords="92,95,237,121"/>
+<area shape="rect" href="RelocationTable_8hpp.html" title=" " alt="" coords="67,319,206,345"/>
+<area shape="rect" href="ExpressionParser_8hpp.html" title=" " alt="" coords="281,319,427,345"/>
+<area shape="rect" href="SymbolTable_8hpp.html" title=" " alt="" coords="452,319,573,345"/>
+<area shape="rect" href="OperandParser_8hpp.html" title=" " alt="" coords="82,169,215,196"/>
+<area shape="rect" title=" " alt="" coords="5,393,73,420"/>
+<area shape="rect" title=" " alt="" coords="216,393,271,420"/>
+<area shape="rect" href="Operand_8hpp.html" title=" " alt="" coords="89,244,184,271"/>
+<area shape="rect" title=" " alt="" coords="373,393,420,420"/>
+<area shape="rect" title=" " alt="" coords="107,393,166,420"/>
+<area shape="rect" title=" " alt="" coords="295,393,349,420"/>
+<area shape="rect" href="DataDefs_8hpp.html" title=" " alt="" coords="444,393,544,420"/>
+<area shape="rect" title=" " alt="" coords="463,468,525,495"/>
+<area shape="rect" title=" " alt="" coords="569,393,638,420"/>
+<area shape="rect" title=" " alt="" coords="663,393,715,420"/>
 </map>
 </div>
 </div></div><!-- contents -->

diff --git a/docs/SymbolTable_8hpp.html b/docs/SymbolTable_8hpp.html
@@ -96,17 +96,18 @@ This graph shows which files directly or indirectly include this file:</div>
 <div class="dyncontent">
 <div class="center"><img src="SymbolTable_8hpp__dep__incl.png" border="0" usemap="#aassembler_2include_2SymbolTable_8hppdep" alt=""/></div>
 <map name="aassembler_2include_2SymbolTable_8hppdep" id="aassembler_2include_2SymbolTable_8hppdep">
-<area shape="rect" title=" " alt="" coords="1101,5,1275,47"/>
+<area shape="rect" title=" " alt="" coords="1201,5,1375,47"/>
 <area shape="rect" href="Parser_8hpp.html" title=" " alt="" coords="86,102,279,129"/>
 <area shape="rect" href="AssemblyDirectiveParser_8cpp.html" title=" " alt="" coords="304,95,491,136"/>
 <area shape="rect" href="DataDefinitionParser_8cpp.html" title=" " alt="" coords="515,95,725,136"/>
 <area shape="rect" href="EquDirectiveParser_8cpp.html" title=" " alt="" coords="749,95,952,136"/>
 <area shape="rect" href="ExpressionParser_8cpp.html" title=" " alt="" coords="976,95,1168,136"/>
-<area shape="rect" href="LabelParser_8cpp.html" title=" " alt="" coords="1193,102,1415,129"/>
-<area shape="rect" href="MemoryDirectParser_8cpp.html" title=" " alt="" coords="1439,95,1649,136"/>
-<area shape="rect" href="RegisterIndirectOffsetParser_8cpp.html" title=" " alt="" coords="1673,95,1850,136"/>
-<area shape="rect" href="RelocationTable_8cpp.html" title=" " alt="" coords="1874,95,2065,136"/>
-<area shape="rect" href="SymbolTable_8cpp.html" title=" " alt="" coords="2089,102,2317,129"/>
+<area shape="rect" href="ImmediateParser_8cpp.html" title=" " alt="" coords="1193,95,1383,136"/>
+<area shape="rect" href="LabelParser_8cpp.html" title=" " alt="" coords="1407,102,1630,129"/>
+<area shape="rect" href="MemoryDirectParser_8cpp.html" title=" " alt="" coords="1654,95,1863,136"/>
+<area shape="rect" href="RegisterIndirectOffsetParser_8cpp.html" title=" " alt="" coords="1887,95,2065,136"/>
+<area shape="rect" href="RelocationTable_8cpp.html" title=" " alt="" coords="2089,95,2279,136"/>
+<area shape="rect" href="SymbolTable_8cpp.html" title=" " alt="" coords="2303,102,2531,129"/>
 <area shape="rect" href="main__as_8cpp.html" title=" " alt="" coords="5,184,163,225"/>
 <area shape="rect" href="Parser_8cpp.html" title=" " alt="" coords="187,191,378,218"/>
 </map>

diff --git a/docs/dir_0aebab7f503218b02cbf78fb39feba74.html b/docs/dir_0aebab7f503218b02cbf78fb39feba74.html
@@ -76,7 +76,7 @@ Directory dependency graph for source:</div>
 <map name="adir__0aebab7f503218b02cbf78fb39feba74__dep" id="adir__0aebab7f503218b02cbf78fb39feba74__dep">
 <area shape="rect" href="dir_9adc28941ba36e99867b693df73b3798.html" title="include" alt="" coords="27,148,99,196"/>
 <area shape="rect" href="dir_0aebab7f503218b02cbf78fb39feba74.html" title="source" alt="" coords="27,52,99,100"/>
-<area shape="rect" href="dir_000002_000001.html" title="57" alt="" coords="64,122,78,137"/>
+<area shape="rect" href="dir_000002_000001.html" title="59" alt="" coords="64,122,78,137"/>
 <area shape="rect" href="dir_b56a8db23c35bf9da7f760b418b0fcbd.html" title="assembler" alt="" coords="16,16,109,207"/>
 </map>
 </div>

diff --git a/docs/dir_b56a8db23c35bf9da7f760b418b0fcbd.html b/docs/dir_b56a8db23c35bf9da7f760b418b0fcbd.html
@@ -76,7 +76,7 @@ Directory dependency graph for assembler:</div>
 <map name="adir__b56a8db23c35bf9da7f760b418b0fcbd__dep" id="adir__b56a8db23c35bf9da7f760b418b0fcbd__dep">
 <area shape="rect" href="dir_9adc28941ba36e99867b693df73b3798.html" title="include" alt="" coords="27,123,99,171"/>
 <area shape="rect" href="dir_0aebab7f503218b02cbf78fb39feba74.html" title="source" alt="" coords="27,27,99,75"/>
-<area shape="rect" href="dir_000002_000001.html" title="57" alt="" coords="64,97,78,112"/>
+<area shape="rect" href="dir_000002_000001.html" title="59" alt="" coords="64,97,78,112"/>
 <area shape="rect" href="dir_b56a8db23c35bf9da7f760b418b0fcbd.html" alt="" coords="16,16,216,181"/>
 </map>
 </div>
